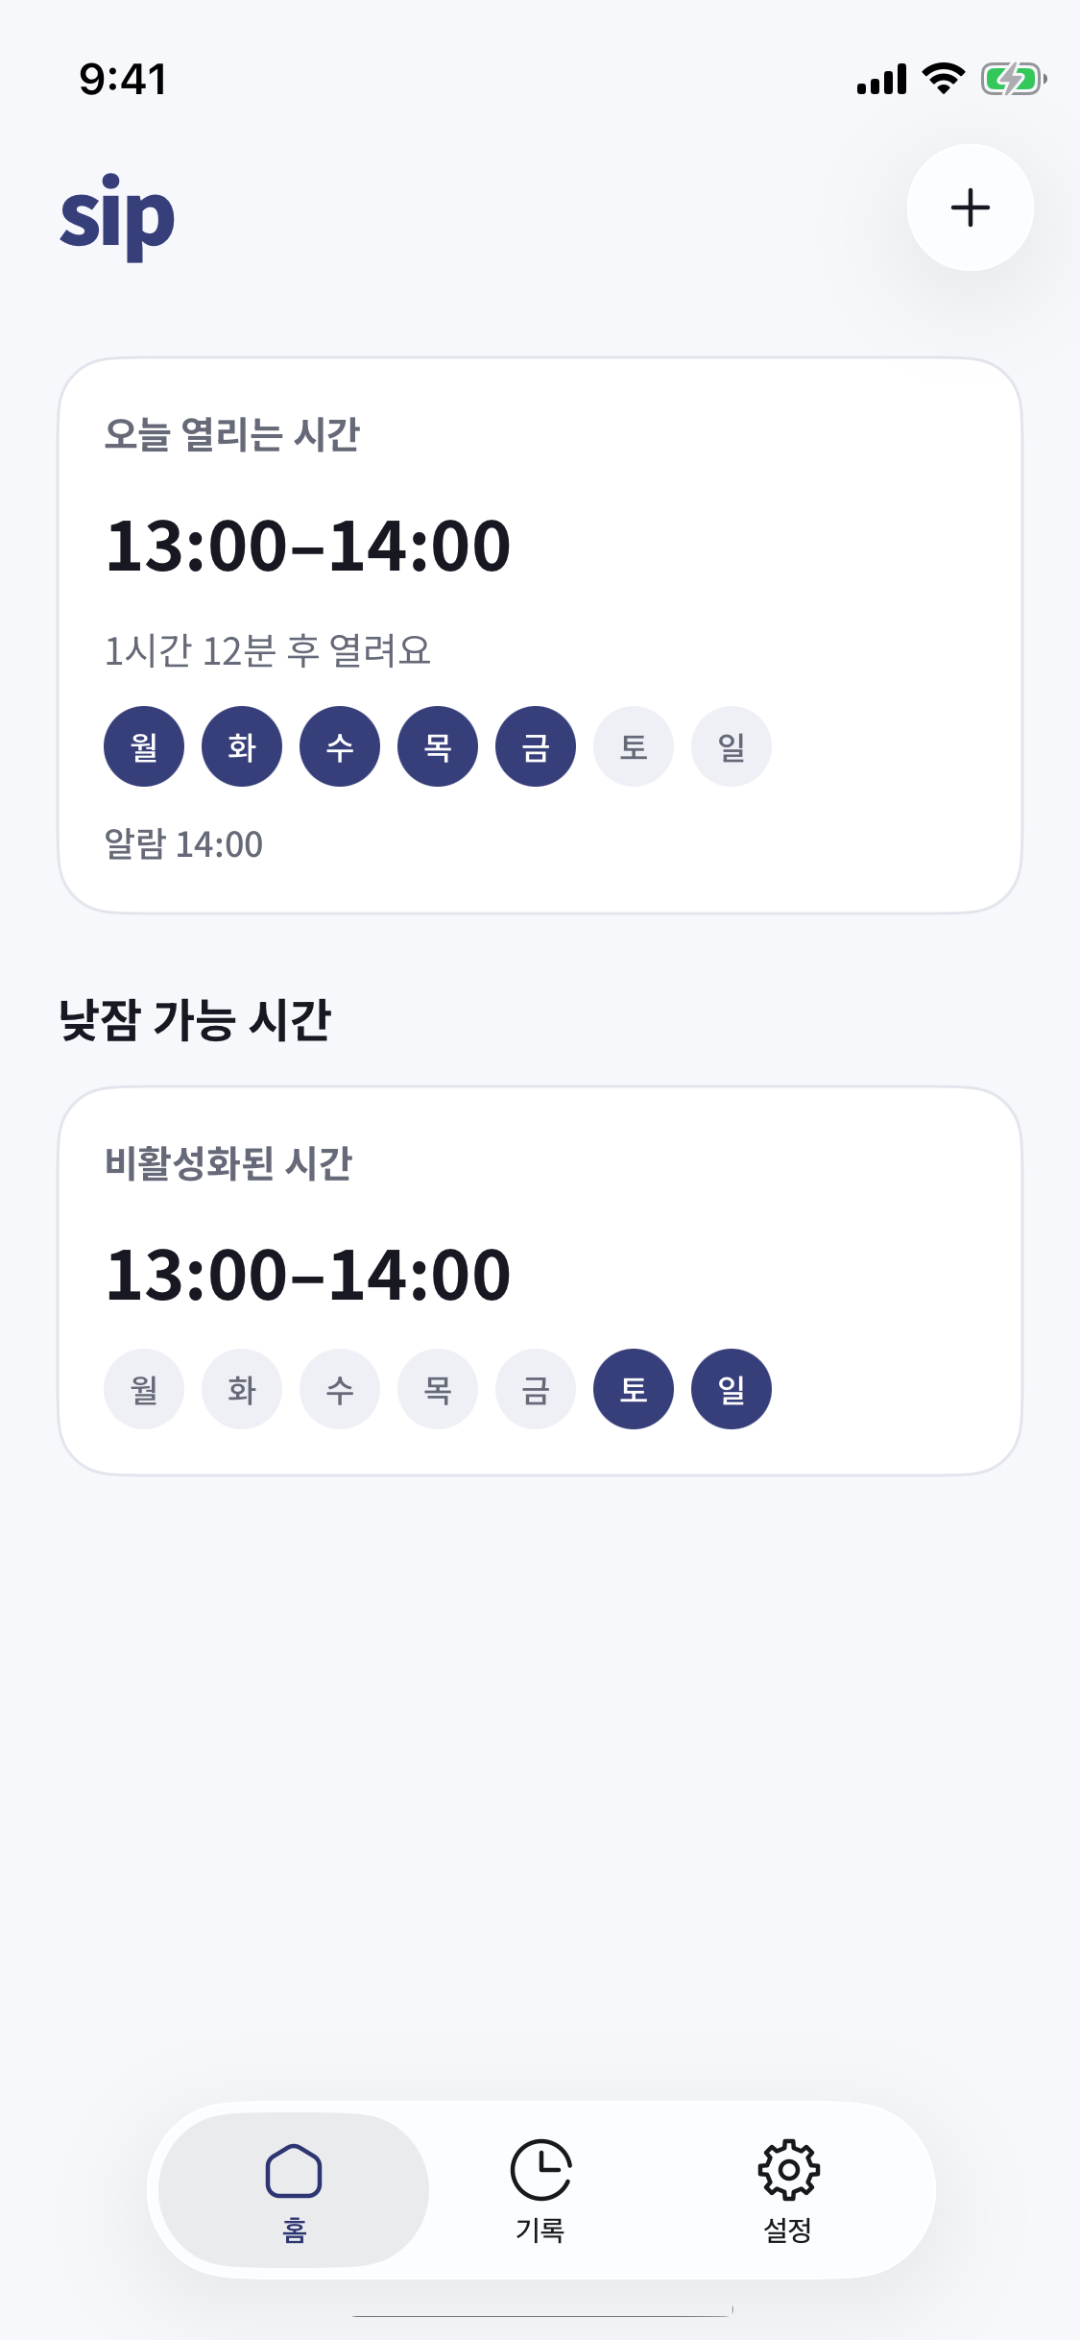
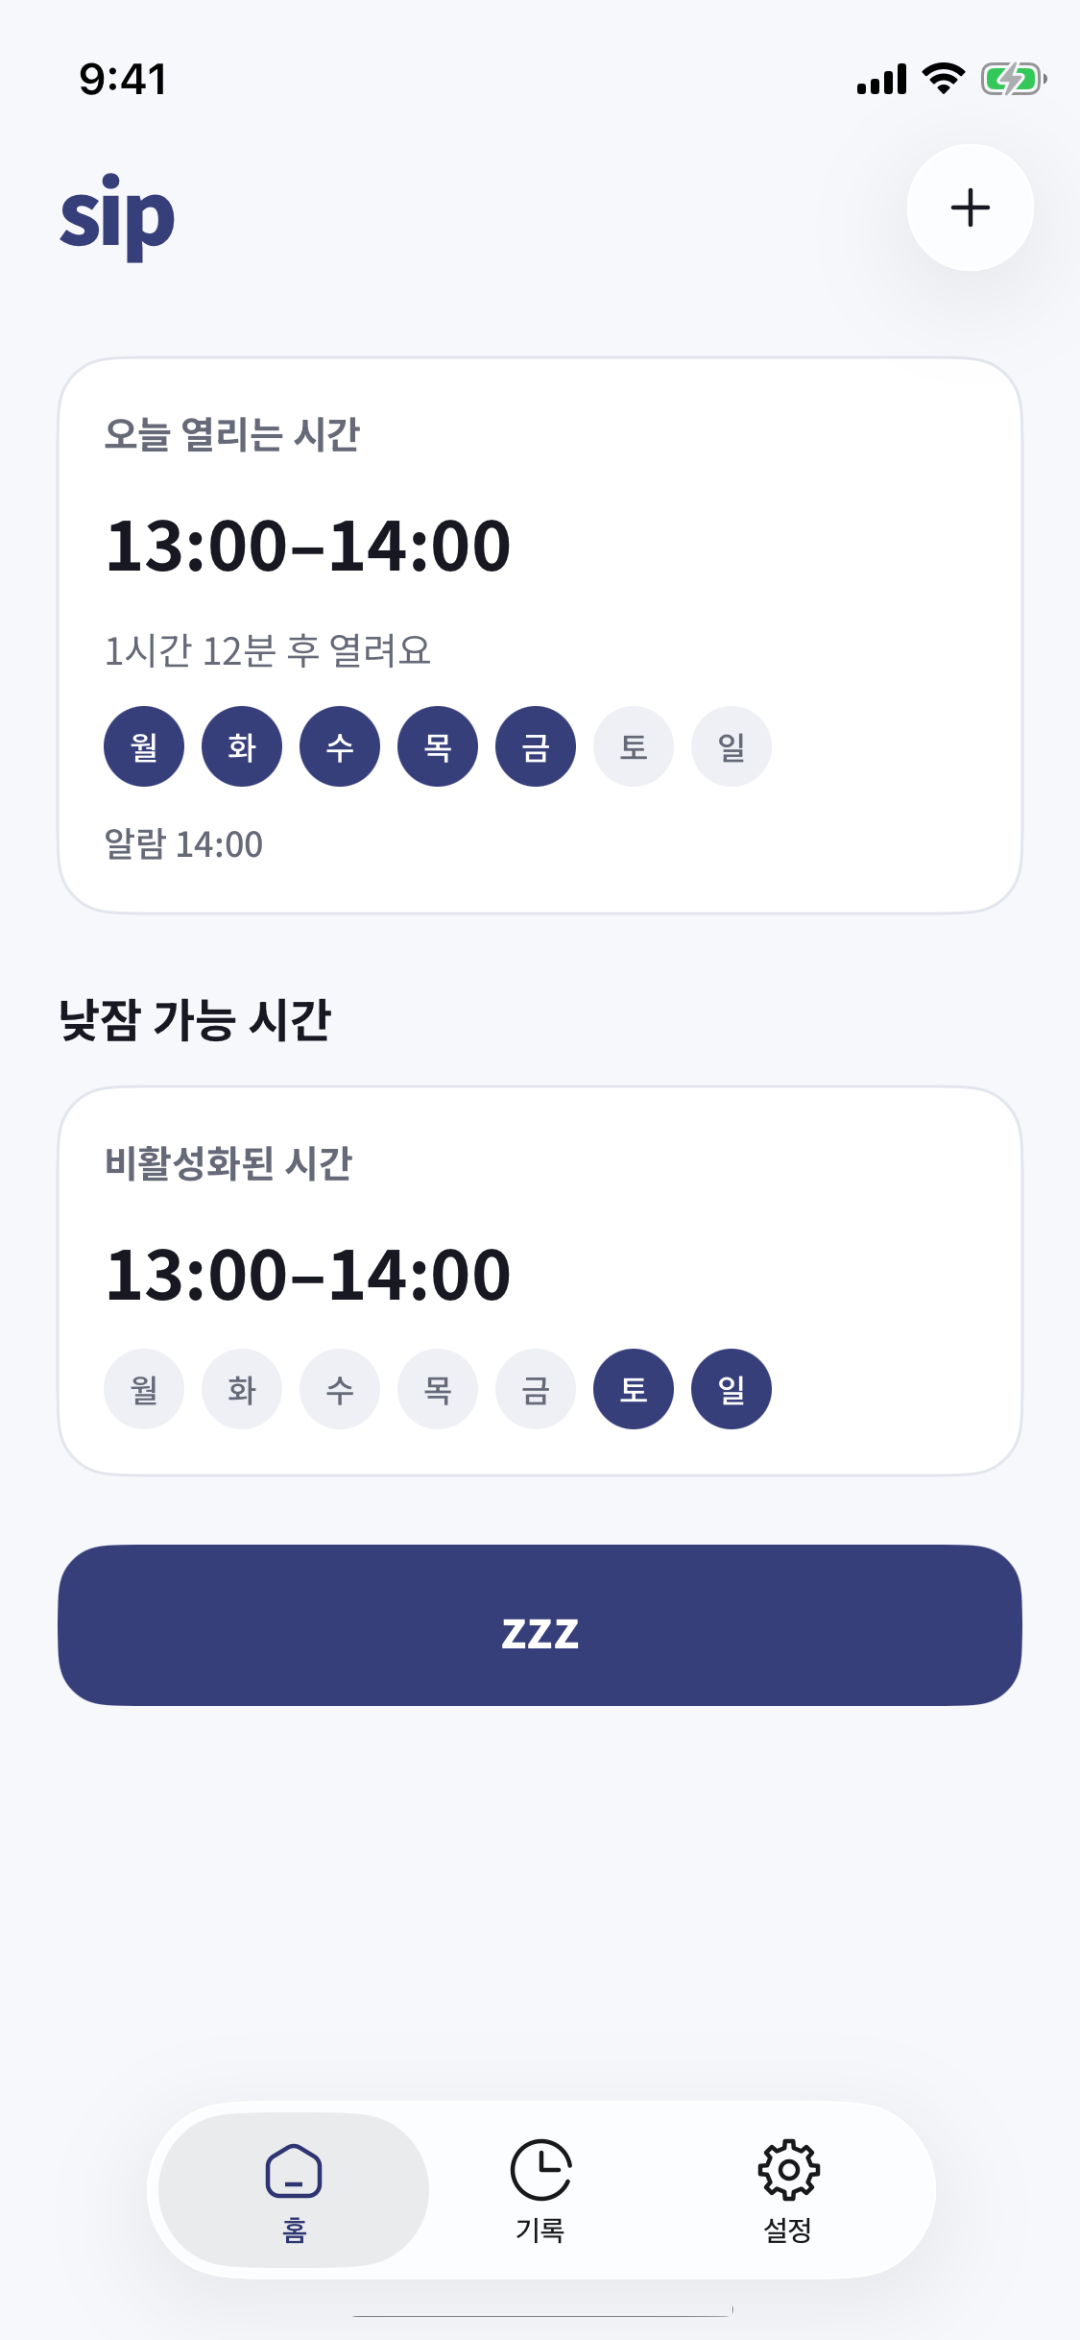
[feat] Home 즉시 낮잠 동작 추가

Changed region(s): [[0.0306, 0.6551, 0.9472, 0.7487]]

diff --git a/sip/Views/HomeView.swift b/sip/Views/HomeView.swift
@@ -14,7 +14,7 @@ struct HomeView: View {
     @ScaledMetric(relativeTo: .callout) private var sectionLineHeight = 24.0
 
     init(windows: [NapWindow]? = nil) {
-        let storedActiveSession = ActiveNapSessionStorage.load()
+        let storedActiveSession = windows == nil ? ActiveNapSessionStorage.load() : nil
         _windows = State(
             initialValue: windows ?? NapWindowStorage.load() ?? []
         )
@@ -72,6 +72,13 @@ struct HomeView: View {
                             )
                         }
                     }
+
+                    Button("zzz", action: startInstantNap)
+                        .buttonStyle(InstantNapButtonStyle())
+                        .disabled(activeSession != nil)
+                        .padding(.top, 24)
+                        .accessibilityLabel("지금 낮잠 시작")
+                        .accessibilityHint("즉시 낮잠을 시작하고 진행 화면을 엽니다")
                 }
                 .frame(maxWidth: .infinity, alignment: .leading)
                 .padding(.horizontal, 20)
@@ -157,6 +164,15 @@ struct HomeView: View {
         route = .schedule(.defaultDraft)
     }
 
+    private func startInstantNap() {
+        guard activeSession == nil else { return }
+        let session = ActiveNapSession.instant()
+        activeSession = session
+        ActiveNapSessionStorage.save(session)
+        PhoneConnectivityCoordinator.shared.publish(windows: windows, activeSession: session)
+        route = .active(session, fixedNow: nil)
+    }
+
     private func edit(_ window: NapWindow) {
         route = .schedule(window)
     }
@@ -212,6 +228,23 @@ private struct SipWordmark: View {
             .tracking(-1.4)
             .foregroundStyle(Color("BrandAccent"))
             .accessibilityAddTraits(.isHeader)
+    }
+}
+
+private struct InstantNapButtonStyle: ButtonStyle {
+    @Environment(\.isEnabled) private var isEnabled
+
+    func makeBody(configuration: Configuration) -> some View {
+        configuration.label
+            .font(NotoSansKR.font(size: 18, weight: .bold, relativeTo: .headline))
+            .foregroundStyle(isEnabled ? Color("SurfacePrimary") : Color("TextSecondary"))
+            .frame(maxWidth: .infinity, minHeight: 56, maxHeight: 56)
+            .background(
+                isEnabled ? Color("BrandAccent") : Color("SurfaceSecondary"),
+                in: RoundedRectangle(cornerRadius: 18)
+            )
+            .opacity(configuration.isPressed && isEnabled ? 0.82 : 1)
+            .contentShape(RoundedRectangle(cornerRadius: 18))
     }
 }
 
@@ -384,7 +417,20 @@ private enum NapWindowPresentation {
     }
 }
 
-#Preview("Home · Default") {
+#Preview("Home · iPhone 13 mini") {
     HomeView(windows: NapWindow.figmaHomeFixtures)
+        .frame(width: 375, height: 812)
+        .preferredColorScheme(.light)
+}
+
+#Preview("Home · iPhone SE") {
+    HomeView(windows: NapWindow.figmaHomeFixtures)
+        .frame(width: 375, height: 667)
+        .preferredColorScheme(.light)
+}
+
+#Preview("Home · iPhone 15 Pro") {
+    HomeView(windows: NapWindow.figmaHomeFixtures)
+        .frame(width: 393, height: 852)
         .preferredColorScheme(.light)
 }

diff --git a/sip/Views/MaintabView.swift b/sip/Views/MaintabView.swift
@@ -11,6 +11,7 @@ struct MaintabView: View {
     @State private var selectedTab: MainTab
 
 #if DEBUG
+    private let usesFigmaHome: Bool
     private let usesFigmaRecords: Bool
     private let usesEmptyRecords: Bool
     private let usesFigmaPermissions: Bool
@@ -26,6 +27,7 @@ struct MaintabView: View {
             ? MainTab.records
             : (MainTab(rawValue: resolvedPreviewTab ?? "") ?? .home)
         _selectedTab = State(initialValue: initialTab)
+        usesFigmaHome = resolvedPreviewTab == MainTab.home.rawValue
         usesFigmaRecords = resolvedPreviewTab == MainTab.records.rawValue
         usesEmptyRecords = resolvedPreviewTab == "records-empty"
         usesFigmaPermissions = resolvedPreviewTab == MainTab.settings.rawValue
@@ -37,7 +39,7 @@ struct MaintabView: View {
 
     var body: some View {
         TabView(selection: $selectedTab) {
-            HomeView()
+            homeView
                 .tabItem {
                     Label("홈", image: "IconoirHome")
                 }
@@ -56,6 +58,15 @@ struct MaintabView: View {
                 .tag(MainTab.settings)
         }
         .tint(Color("BrandAccent"))
+    }
+
+    @ViewBuilder
+    private var homeView: some View {
+#if DEBUG
+        HomeView(windows: usesFigmaHome ? NapWindow.figmaHomeFixtures : nil)
+#else
+        HomeView()
+#endif
     }
 
     @ViewBuilder

diff --git a/sip/PhoneConnectivityCoordinator.swift b/sip/PhoneConnectivityCoordinator.swift
@@ -77,7 +77,9 @@ final class PhoneConnectivityCoordinator: NSObject {
 
         if let activeSession {
             do {
-                context[MessageKey.activeSessionData] = try JSONEncoder().encode(activeSession)
+                context[MessageKey.activeSessionData] = try JSONEncoder().encode(
+                    PhoneWatchNapSession(activeSession: activeSession)
+                )
             } catch {
                 logger.error("Active session encoding failed: \(error.localizedDescription, privacy: .public)")
             }
@@ -357,6 +359,13 @@ private struct PhoneWatchNapSession: Codable {
     let windowID: UUID
     let startedAt: Date
     let endAlarmAt: Date
+
+    init(activeSession: ActiveNapSession) {
+        id = activeSession.id
+        windowID = activeSession.windowID ?? activeSession.id
+        startedAt = activeSession.startedAt
+        endAlarmAt = activeSession.endAlarmAt
+    }
 
     var activeNapSession: ActiveNapSession {
         ActiveNapSession(

diff --git a/sip/ActiveNapSession.swift b/sip/ActiveNapSession.swift
@@ -9,13 +9,13 @@ import Foundation
 
 struct ActiveNapSession: Codable, Identifiable, Hashable {
     let id: UUID
-    let windowID: UUID
+    let windowID: UUID?
     let startedAt: Date
     var endAlarmAt: Date
 
     init(
         id: UUID = UUID(),
-        windowID: UUID,
+        windowID: UUID?,
         startedAt: Date,
         endAlarmAt: Date
     ) {
@@ -23,6 +23,16 @@ struct ActiveNapSession: Codable, Identifiable, Hashable {
         self.windowID = windowID
         self.startedAt = startedAt
         self.endAlarmAt = endAlarmAt
+    }
+
+    static func instant(now: Date = .now, calendar: Calendar = .current) -> ActiveNapSession {
+        let endAlarmAt = calendar.date(byAdding: .hour, value: 1, to: now)
+            ?? now.addingTimeInterval(60 * 60)
+        return ActiveNapSession(
+            windowID: nil,
+            startedAt: now,
+            endAlarmAt: endAlarmAt
+        )
     }
 
     func elapsedMinutes(at date: Date) -> Int {

diff --git a/sip/sipApp.swift b/sip/sipApp.swift
@@ -48,6 +48,8 @@ struct sipApp: App {
             DebugNavigationPreview {
                 HelpView()
             }
+        case "home":
+            MaintabView(previewTab: "home")
         default:
             productionRoot
         }
